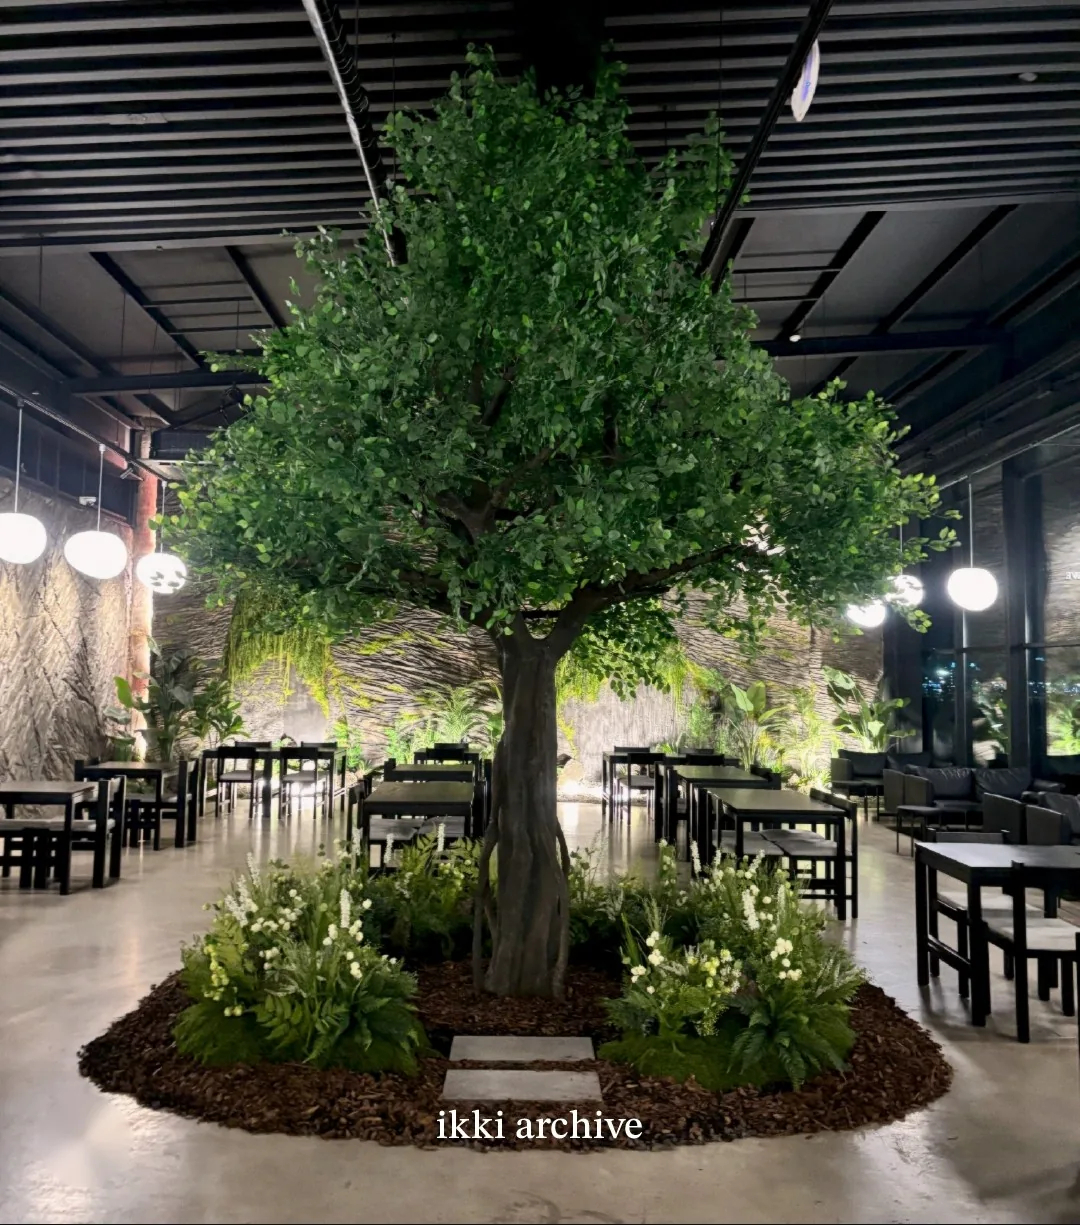
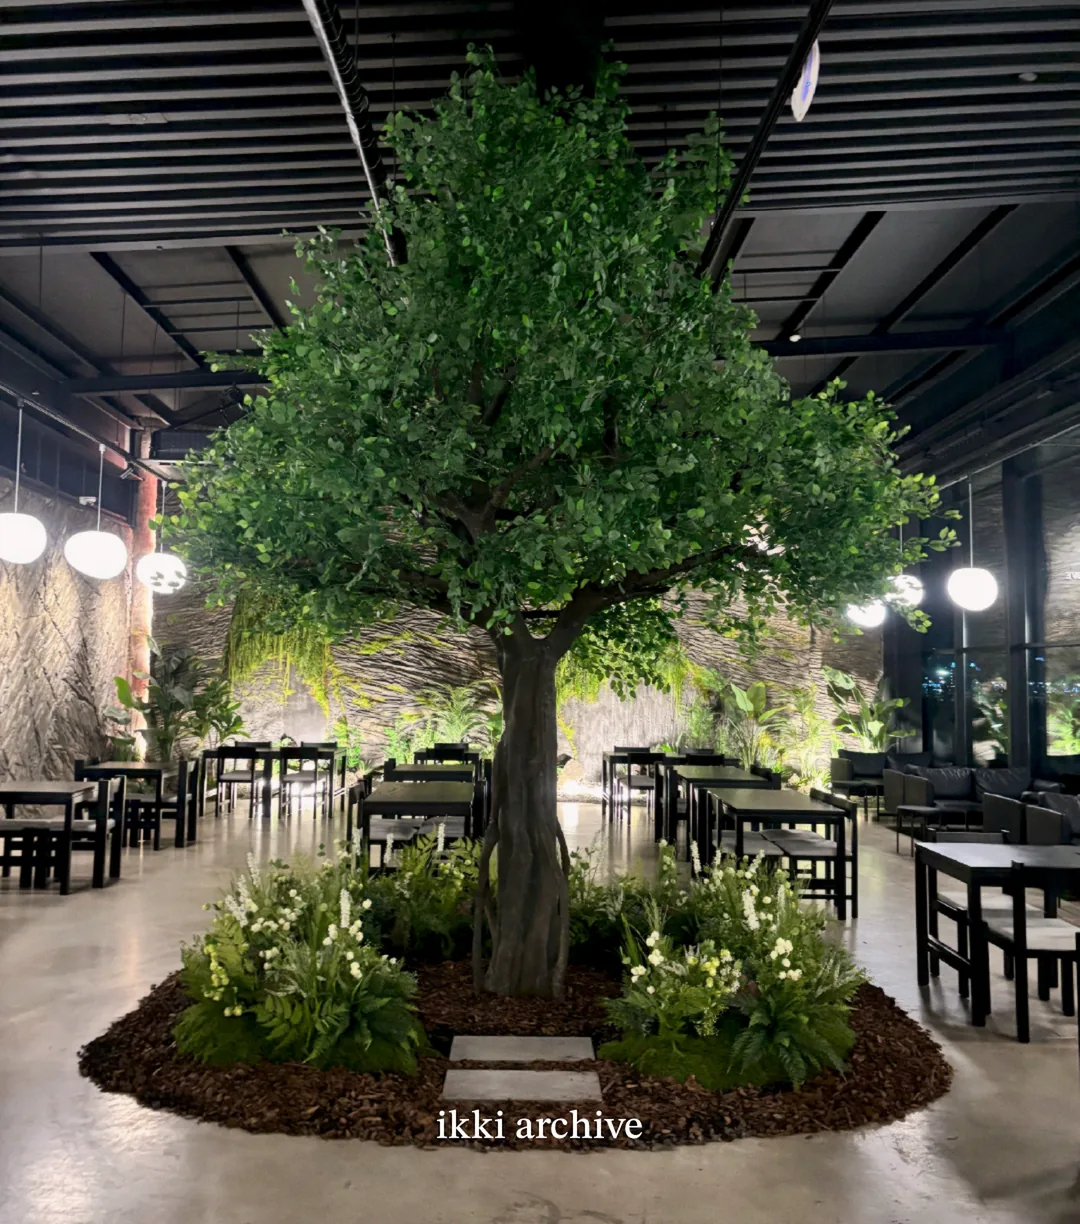
ikki: 2x photos for hero layers and cafe chapter

diff --git a/wethru/interior/ikki-archive/index.html b/wethru/interior/ikki-archive/index.html
@@ -24,12 +24,12 @@ const CONFIG = {
     caption: "행잉 작품",
     cue: "내리면 작품이 한 층씩 걸립니다",
     piece: {
-      ratio: 730 / 938, tip: { x: 46.6, y: 5.3 },
+      ratio: 730 / 938, tip: { x: 45.92, y: 5.4 },
       layers: [
-        { key: "cone",    src: "assets/hang_cone.webp",    x: 34.25, y: 5.33,  w: 26.16 },
-        { key: "middle",  src: "assets/hang_middle.webp",  x: 27.67, y: 26.33, w: 49.45 },
-        { key: "ring",    src: "assets/hang_ring.webp",    x: 20.55, y: 47.55, w: 66.16 },
-        { key: "strands", src: "assets/hang_strands.webp", x: 22.74, y: 70.36, w: 61.92 }
+        { key: "cone",    src: "assets/hang_cone.webp",    x: 34.26, y: 5.22,  w: 26.28 },
+        { key: "middle",  src: "assets/hang_middle.webp",  x: 27.59, y: 26.27, w: 49.52 },
+        { key: "ring",    src: "assets/hang_ring.webp",    x: 20.46, y: 47.6, w: 66.2 },
+        { key: "strands", src: "assets/hang_strands.webp", x: 22.97, y: 70.34, w: 61.66 }
       ],
       all: "assets/hang_all.webp"
     }
@@ -39,7 +39,7 @@ const CONFIG = {
   facts: [["작업 지역", "부산, 경남, 울산"], ["시공 전", "3D 시안으로 먼저 맞춰 봅니다"], ["수상", "2017 한국공간디자인 공모전 동상"]],
 
   chapter: {
-    src: "assets/cafe_tree.webp", src2x: "", w: 1080, h: 1225,          // src2x: 2160px 버전이 생기면 "assets/cafe_tree@2x.webp"
+    src: "assets/cafe_tree.webp", src2x: "assets/cafe_tree@2x.webp", w: 1080, h: 1224,          // src2x: 2160px 버전이 생기면 "assets/cafe_tree@2x.webp"
     alt: "송정동 대형 카페 한가운데, 천장 가까이 자란 큰 나무와 그 아래 이끼, 고사리, 흰 꽃 식재",
     quote: "공간은 보이는 것이 아니라 느껴지는 것으로 기억됩니다.",       // 업체 캡션 원문
     rows: [["장소", "송정동 대형 카페"], ["시기", "2026년 3월"], ["의뢰", "(주)아르텍"], ["설계와 시공", "ikki archive"]]

diff --git a/tools/ikki/upscale_compare.py b/tools/ikki/upscale_compare.py
@@ -1,0 +1,95 @@
+#!/usr/bin/env python3
+"""Create exact 2x candidates and native-pixel comparisons; never select automatically.
+
+python tools/ikki/upscale_compare.py --exe tools/ikki/bin/realesrgan-ncnn-vulkan.exe
+Candidates and 100% crop boards go in compare/. Copy the visually preferred
+candidate for each photo to input/{hang,cafe}_2x.png before running the exporters.
+"""
+import argparse
+import json
+import subprocess
+from pathlib import Path
+
+import numpy as np
+from PIL import Image, ImageDraw, ImageFilter
+
+from make_hang_layers import align
+
+HERE = Path(__file__).resolve().parent
+# Reference-pixel coordinates. Cafe reference starts at original row 125.
+CROPS = {
+    "hang": [("conifer-leaves", (295, 160, 515, 380)),
+             ("red-strands", (205, 650, 425, 870))],
+    "cafe": [("tree-leaves", (545, 365, 765, 585)),
+             ("white-flowers", (620, 855, 840, 1075))],
+}
+
+
+def comparison(original, esrgan, lanczos, box, title, path):
+    """All panels use 1 image pixel per output pixel; original is centered."""
+    original_crop = original.crop(box)
+    box2 = tuple(v * 2 for v in box)
+    panels = [original_crop, esrgan.crop(box2), lanczos.crop(box2)]
+    w, h = panels[1].size
+    board = Image.new("RGB", (3 * (w + 24), h + 90), "#202020")
+    draw = ImageDraw.Draw(board)
+    labels = ["Original / 100%", "Real-ESRGAN x4 -> 2x / 100%",
+              "Lanczos 2x + mild unsharp / 100%"]
+    for i, (panel, label) in enumerate(zip(panels, labels)):
+        x = i * (w + 24) + 12
+        draw.text((x, 12), label, fill="white")
+        board.paste(panel, (x + (w - panel.width) // 2,
+                           38 + (h - panel.height) // 2))
+    draw.text((12, h + 54), f"{title}; original box {box}; native pixels, no display resampling", fill="white")
+    board.save(path)
+
+
+def main():
+    ap = argparse.ArgumentParser(description=__doc__)
+    ap.add_argument("--exe", type=Path, required=True)
+    args = ap.parse_args()
+    exe = args.exe.resolve()
+    out = HERE / "compare"
+    out.mkdir(exist_ok=True)
+    manifest = {}
+    for name in ("hang", "cafe"):
+        source = HERE / "input" / f"{name}_original.jpg"
+        original = Image.open(source).convert("RGB")
+        x4path = HERE / "input" / f"{name}_x4.png"
+        print(f"{name}: Real-ESRGAN x4plus {original.size}", flush=True)
+        with (out / f"{name}_esrgan.log").open("w") as log:
+            subprocess.run([str(exe), "-i", str(source), "-o", str(x4path),
+                            "-n", "realesrgan-x4plus", "-s", "4", "-t", "64",
+                            "-m", str(exe.parent / "models"), "-f", "png"],
+                           cwd=exe.parent, stdout=log, stderr=log, check=True)
+        if "failed" in (out / f"{name}_esrgan.log").read_text().lower():
+            raise RuntimeError(f"Vulkan failure: see compare/{name}_esrgan.log")
+        size = (original.width * 2, original.height * 2)
+        with Image.open(x4path) as x4:
+            if x4.size != (original.width * 4, original.height * 4):
+                raise ValueError(f"Unexpected x4 size: {x4.size}")
+            esrgan = x4.convert("RGB").resize(size, Image.Resampling.LANCZOS)
+        lanczos = original.resize(size, Image.Resampling.LANCZOS).filter(
+            ImageFilter.UnsharpMask(radius=0.8, percent=45, threshold=3))
+        esrgan.save(out / f"{name}_esrgan_2x.png")
+        lanczos.save(out / f"{name}_lanczos_2x.png")
+        ref = np.asarray(Image.open(HERE / "ref" / f"{name}_ref.jpg").convert("L"))
+        scale, (tx, ty), score = align(np.asarray(original.convert("L")), ref)
+        if score < 0.95:
+            raise ValueError(f"Crop alignment failed: {name} {score}")
+        boxes = {}
+        for label, rect in CROPS[name]:
+            box = tuple(round(v * scale + (tx if i % 2 == 0 else ty)) for i, v in enumerate(rect))
+            comparison(original, esrgan, lanczos, box, f"{name}: {label}",
+                       out / f"{name}_{label}_100pct.png")
+            boxes[label] = box
+        manifest[name] = {"source": str(source), "original_size": original.size,
+                          "candidate_size": size, "crop_alignment": score,
+                          "crop_boxes": boxes,
+                          "unsharp": {"radius": 0.8, "percent": 45, "threshold": 3}}
+        print(f"{name}: wrote {size} candidates and 100% crops", flush=True)
+    (out / "upscale_manifest.json").write_text(json.dumps(manifest, indent=2), encoding="utf-8")
+
+
+if __name__ == "__main__":
+    main()

diff --git a/tools/ikki/make_hang_matte.py b/tools/ikki/make_hang_matte.py
@@ -1,0 +1,34 @@
+#!/usr/bin/env python3
+"""Predict a foreground-only matte; does not generate or recolour photo pixels.
+
+Optional dependency: pip install "rembg[cpu]"
+python tools/ikki/make_hang_matte.py --src tools/ikki/input/hang_2x.png --out tools/ikki/out/hang_birefnet.png
+"""
+import argparse
+import os
+from pathlib import Path
+
+from PIL import Image
+
+HERE = Path(__file__).resolve().parent
+
+
+def main():
+    ap = argparse.ArgumentParser(description=__doc__)
+    ap.add_argument("--src", type=Path, required=True)
+    ap.add_argument("--out", type=Path, required=True)
+    args = ap.parse_args()
+    os.environ.setdefault("U2NET_HOME", str(HERE / "bin" / "models"))
+    os.environ.setdefault("OMP_NUM_THREADS", "8")
+    from rembg import new_session, remove
+
+    session = new_session("birefnet-general", providers=["CPUExecutionProvider"])
+    src = Image.open(args.src).convert("RGB")
+    matte = remove(src, session=session, only_mask=True)
+    args.out.parent.mkdir(parents=True, exist_ok=True)
+    matte.save(args.out)
+    print(f"Saved {args.out}: {matte.size}, white = foreground")
+
+
+if __name__ == "__main__":
+    main()

diff --git a/tools/ikki/make_hang_layers.py b/tools/ikki/make_hang_layers.py
@@ -168,7 +168,7 @@ def main():
     al = np.clip((alpha - 0.08) / 0.92, 0, 1) ** 1.25
     fg = np.clip((src - (1 - alpha[..., None]) * bg) / np.maximum(alpha, 0.06)[..., None], 0, 255)
     fg = np.where(alpha[..., None] > 0.97, src, fg)
-    fg = np.clip(fg * 1.04 + 4, 0, 255)
+    # Preserve source colours; only un-mix the curtain at translucent edges.
 
     # curtain seen through gaps inside the sculpture
     mn = src.min(axis=2)

diff --git a/tools/ikki/README.md b/tools/ikki/README.md
@@ -4,8 +4,8 @@
 
 | 사진 | 사이트에서 쓰는 곳 | 지금 상태 |
 |---|---|---|
-| 행잉 작품 | 첫 화면, 스크롤하면 4개 층으로 조립됨 | 폰 캡처(가로 810px)에서 잘라냄 |
-| 송정동 대형 카페 나무 | 두 번째 큰 사진 | 1080px, 2배 버전 없음 |
+| 행잉 작품 | 첫 화면, 스크롤하면 4개 층으로 조립됨 | 인스타 원본 1440×1781, 2배 처리 후 조립 캔버스 1460×1876 |
+| 송정동 대형 카페 나무 | 두 번째 큰 사진 | 1080px / 2160px WebP를 srcset으로 제공 |
 
 ## 순서
 
@@ -20,18 +20,39 @@
    - 기본: Real-ESRGAN ncnn-vulkan(`realesrgan-x4plus`)으로 4배 → Lanczos로 2배까지 줄이기
    - 비교용: Lanczos 2배 + 약한 언샤프
    - 둘을 100% 크롭으로 비교해 더 자연스러운 쪽을 고릅니다. 침엽 잎, 이끼 결이 유화처럼 뭉개지거나 없던 무늬가 생기면 탈락입니다.
+   - Windows 빌드를 `bin/`에 푼 뒤 비교 후보와 100% 크롭을 한 번에 생성할 수 있습니다.
+     ```
+     python tools/ikki/upscale_compare.py --exe tools/ikki/bin/realesrgan-ncnn-vulkan.exe
+     ```
+   - 결과는 `compare/{hang,cafe}_{esrgan,lanczos}_2x.png`입니다. 육안으로 고른 파일을 `input/{hang,cafe}_2x.png`로 복사합니다. 비교판의 원본은 확대하지 않은 100%, 두 후보도 100%입니다.
+   - Intel Arc에서 타일 256은 Vulkan 오류가 발생해 64를 사용합니다. 로그에 `failed`가 있으면 후보 생성을 중단합니다.
 
 3. **사이트용 파일 만들기**
    ```
-   python tools/ikki/make_hang_layers.py --src tools/ikki/input/hang_2x.png --out wethru/interior/ikki-archive/assets
+   python tools/ikki/make_hang_layers.py --src tools/ikki/input/hang_2x.png --out wethru/interior/ikki-archive/assets --max-height 1876
    python tools/ikki/make_cafe.py        --src tools/ikki/input/cafe_2x.png --out wethru/interior/ikki-archive/assets
    ```
    - 두 스크립트 모두 `ref/`의 기준 사진과 자동으로 맞춰서, 해상도나 여백이 달라도 같은 구도로 잘라냅니다. 일치도(match)가 0.6 미만이면 멈춥니다.
    - `make_hang_layers.py`는 `tools/ikki/out/hang_preview.jpg`(조립 확인용)와 `hang_layout.json`(위치값)을 남깁니다.
    - 배경 분리가 마음에 안 들면 다른 도구(rembg, BiRefNet 등)로 만든 매트(흰색 = 작품)를 `--alpha matte.png`로 넘길 수 있습니다.
+     ```
+     pip install "rembg[cpu]"
+     python tools/ikki/make_hang_matte.py --src tools/ikki/input/hang_2x.png --out tools/ikki/out/hang_birefnet.png
+     python tools/ikki/make_hang_layers.py --src tools/ikki/input/hang_2x.png --alpha tools/ikki/out/hang_birefnet.png --out wethru/interior/ikki-archive/assets --max-height 1876
+     ```
+   - 모델은 Git에서 제외된 `bin/models/`에 저장합니다. 매트는 투명도만 정하며 사진 픽셀을 생성하지 않습니다. 전체 밝기·색감 보정은 하지 않습니다.
 
 4. **index.html 반영** (CONFIG 안의 아래 값만)
    - `CONFIG.hero.piece.layers`의 x / y / w, `CONFIG.hero.piece.tip` ← `out/hang_layout.json`
    - `CONFIG.chapter.src2x` ← `"assets/cafe_tree@2x.webp"`
+   - `CONFIG.chapter.w`, `h` ← 출력된 1x WebP 크기
 
 필요 패키지: `pip install numpy opencv-python pillow playwright`
+
+## 2026-10-04 적용 결과
+
+- 행잉 원본: https://www.instagram.com/p/DDzKkebPn4x/ 에서 받은 1440×1781 JPEG. `input/hang_original.jpg`에 보관합니다.
+- 두 사진 모두 Lanczos 2배 + 약한 언샤프(radius 0.8, percent 45, threshold 3)를 선택했습니다. Real-ESRGAN x4plus 4배 → Lanczos 2배 후보는 침엽 잎·붉은 줄기·나뭇잎·흰 꽃의 질감이 매끈하게 뭉치거나 유화처럼 단순화되어 제외했습니다.
+- 행잉은 BiRefNet 매트가 기본 매트보다 아래 잎 사이의 커튼 잔여물을 잘 제거해 채택했습니다. 정렬 match: 행잉 0.996, 카페 0.999.
+- 행잉 조립 캔버스는 1460×1876, 카페 WebP는 1080×1224 / 2160×2448입니다. 카페의 1px 높이 차이는 기준 사진 자동 정렬 결과입니다. 하단 `ikki archive` 워터마크는 그대로입니다.
+- `compare/hang_conifer-leaves_100pct.png`, `compare/hang_red-strands_100pct.png`, `compare/cafe_tree-leaves_100pct.png`, `compare/cafe_white-flowers_100pct.png`에서 원본과 두 후보를 비교할 수 있습니다. `compare/`, `out/`, 2배 PNG, 바이너리와 모델은 Git에서 제외됩니다.
